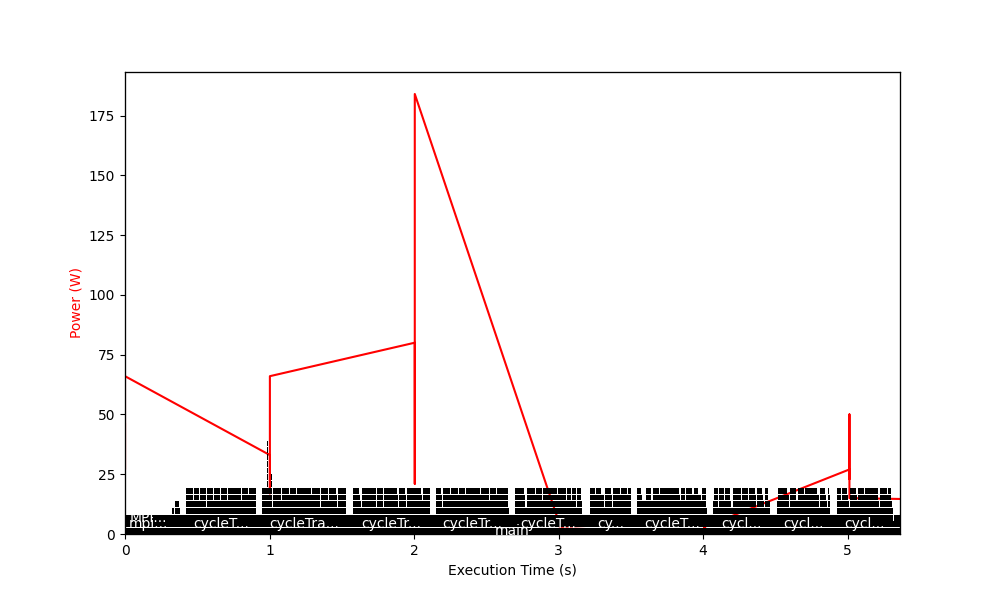
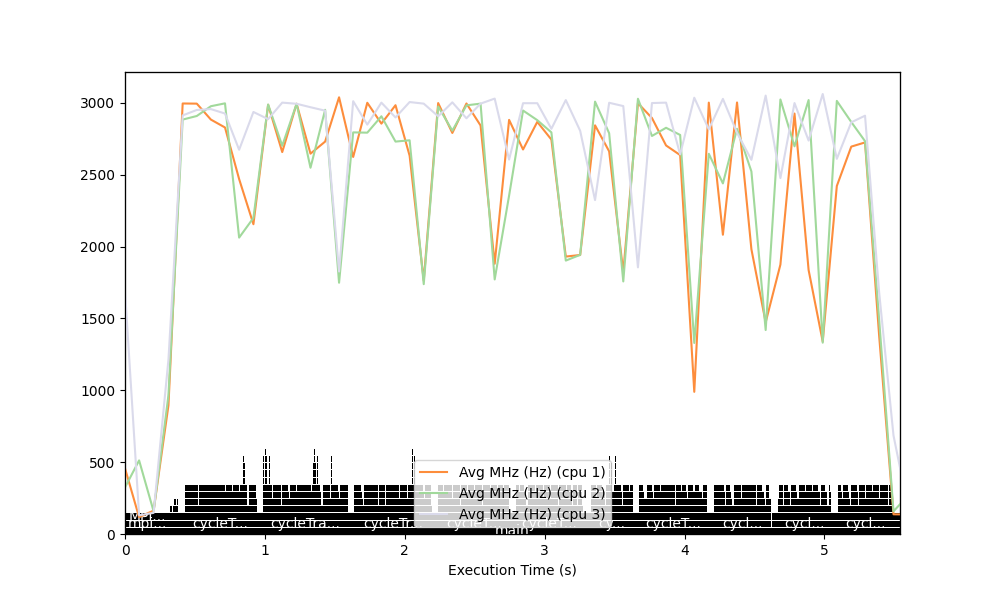
feat(turbostat): enable clean, multi-cpu graphing

diff --git a/main.py b/main.py
@@ -4,123 +4,116 @@ import matplotlib.ticker as ticker
 from matplotlib import colormaps
 import pandas as pd
 
-units = {'Avg_MHz': 'Power (W)', 'FREQ': 'Frequency (Hz)'}
+units = {"Avg_MHz": "Avg MHz (Hz)", "FREQ": "Frequency (Hz)"}
 
 prev_annotation = None
 
-
 def generate_stack_timeline(trace_file):
-  with open(trace_file, 'r') as file:
+  with open(trace_file, "r") as file:
     data = json.load(file)
 
   event_timeline = []
   event_stack = []
   measurement_start = 0
-  for event in data['traceEvents']:
+  for event in data["traceEvents"]:
     # Ignore metadata for now
-    event['ts'] = event['ts']/1e6
-    if event['ph'] == 'M':
+    event["ts"] = event["ts"]/1e6
+    if event["ph"] == "M":
       continue
 
     if not measurement_start:
-      measurement_start = event['ts']
+      measurement_start = event["ts"]
 
-    if event['ph'] == 'B':  # B means begin
+    if event["ph"] == "B":  # B means begin
       event_stack.append({
-          'name': event['name'],
-          'start': event['ts'] - measurement_start,
-          'depth': len(event_stack)
+          "name": event["name"],
+          "start": event["ts"] - measurement_start,
+          "depth": len(event_stack)
       })
 
-    if event['ph'] == 'E':  # E means end
+    if event["ph"] == "E":  # E means end
       prev_event = event_stack.pop()
-      prev_event['end'] = event['ts'] - measurement_start
-      prev_event['duration'] = event['ts'] - \
-          measurement_start - prev_event['start']
+      prev_event["end"] = event["ts"] - measurement_start
+      prev_event["duration"] = event["ts"] - \
+          measurement_start - prev_event["start"]
       event_timeline.append(prev_event)
   return event_timeline
 
 
-def plot_event_timeline(event_timeline, power_measurements, columns, title):
+def plot_event_timeline(event_timeline, power_measurements, columns, cpus, title):
   # update the trace file and data file to be in elapsed seconds
   power_data = pd.read_csv(power_measurements)
-  power_data['TIME_STAMP'] = power_data['TIME_STAMP'] - \
-      power_data['TIME_STAMP'][0]
-  power_data['TIME_STAMP'] = power_data['TIME_STAMP']/1e6
+  power_data["TIME_STAMP"] = power_data["TIME_STAMP"] - \
+      int(power_data["TIME_STAMP"][0])
+  power_data["TIME_STAMP"] = power_data["TIME_STAMP"]/1e6
+
   for event in event_timeline:
-    event['start'] = event['start']
-    event['end'] = event['end']
-    event['duration'] = event['duration']
+    event["start"] = event["start"]
+    event["end"] = event["end"]
+    event["duration"] = event["duration"]
 
   fig, ax = plt.subplots(figsize=(10, 6))
   # have to set this, bounding box would change each time, causing incorrect text width
-  ax.set_xlim(0, max([event['end'] for event in event_timeline]))
+  ax.set_xlim(0, max([event["end"] for event in event_timeline]))
 
-  # plot the power_metrics, first one and second
-  if columns[0] in power_data.columns:
-    column = columns[0]
-    ax2 = ax.twinx()
-    # arbritrary 5% buffer on top of max point.
-    ax2.set_ylim(0, power_data[column].max() +
-                 (power_data[column].max()) * .05)
-    ax2.yaxis.tick_left()
-    ax2.yaxis.set_label_position("left")
-    ax2.plot(power_data['TIME_STAMP'],
-             power_data[column], picker=False, color="red")
-    ax2.set_ylabel(units[column], color="red")
-
-  if len(columns) > 1:
-    if columns[1] in power_data.columns:
-      column = columns[1]
-      ax3 = ax.twinx()
+  # plot the power_metrics
+  colormap = colormaps.get_cmap("tab20c")
+  ax2 = ax.twinx()
+  ax2.set_zorder(3)
+  labels = []
+  for i, column in enumerate(columns):
+    if not column in power_data.columns:
+      raise Exception(f"Column {column} does not exist in the CSV.")
+    for cpu in cpus:
+      stat_color = colormap(cpu / (max(cpus) + 1))
       # arbritrary 5% buffer on top of max point.
-      ax3.set_ylim(0, power_data[column].max() +
-                   (power_data[column].max()) * .05)
-      ax3.yaxis.tick_right()
-      ax3.yaxis.set_label_position("right")
-      ax3.plot(power_data['TIME_STAMP'],
-               power_data[column], picker=False, color="blue")
-      ax3.set_ylabel(units[column], color="blue")
+      ax2.set_ylim(0, power_data[column].max() +
+                  (power_data[column].max()) * .05)
+      ax2.yaxis.tick_left()
+      ax2.yaxis.set_label_position("left")
+      ax2.plot(power_data.loc[power_data["CPU"] == f"{cpu}", "TIME_STAMP"],
+              power_data.loc[power_data["CPU"] == f"{cpu}", column], picker=False, color=stat_color)
+      labels.append(f"{units[column]} (cpu {cpu})" or f"{column} ({cpu})")
+  ax2.legend(labels)
 
   # plot the traces
   bar_height = 0.3
   bar_vertical_space = 0.05
 
-  colormap = colormaps.get_cmap('tab20c')
   renderer = fig.canvas.get_renderer()
   ax4 = ax.twinx()
 
   for i, event in enumerate(event_timeline):
-    y_start = event['depth'] * (bar_vertical_space + bar_height)
-    x_start = event['start']
-    bar_width = event['duration']
+    y_start = event["depth"] * (bar_vertical_space + bar_height)
+    x_start = event["start"]
+    bar_width = event["duration"]
     text = ax4.text(x_start + bar_width / 2, y_start + bar_height / 2,
-                    event['name'], ha='center', va='center', color='white')
+                    event["name"], ha="center", va="center", color="white")
     bounding_box = text.get_window_extent(renderer=renderer)
     text_width = ax4.transData.inverted().transform((bounding_box.width, 0))[
         0] - ax4.transData.inverted().transform((0, 0))[0]
     if bar_width < text_width:  # if bar is too small
       max_bar_text_width = int(
-          (bar_width/text_width) * len(event['name']))
+          (bar_width/text_width) * len(event["name"]))
       if max_bar_text_width > 4:  # event for at least 1 character and ...
-        text.set_text(event['name'][:max_bar_text_width - 3] + '...')
+        text.set_text(event["name"][:max_bar_text_width - 3] + "...")
       else:
         text.remove()
-    legend_label = event['name'].lstrip('_')
+    legend_label = event["name"].lstrip("_")
 
-    bar_colour = "black"  # bar_colour = colormap(i / len(event_timeline))
+    bar_colour = "black"
     ax4.broken_barh([(x_start, bar_width)], (y_start, bar_height),
                     facecolors=bar_colour, picker=True, label=legend_label)
 
   # have bars only take up bottom half of plot
-  ax4.set_ylim(0, max([event['depth'] for event in event_timeline]) * 1.5)
+  ax4.set_ylim(0, max([event["depth"] for event in event_timeline]) * 1.5)
   ax4.set_yticklabels([])
   ax4.set_yticks([])
 
   ax.set_yticklabels([])
   ax.set_yticks([])
-  ax.set_xlabel('Execution Time (s)')
-  plt.savefig('./event_timeline.png')
+  ax.set_xlabel("Execution Time (s)")
+  plt.savefig("./event_timeline.png")
 
   def hover(event):
     global prev_annotation
@@ -132,19 +125,19 @@ def plot_event_timeline(event_timeline, power_measurements, columns, title):
         (ax4.get_xlim()[1] / 3), ax4.get_ylim()[1] - 0.5), arrowprops=dict(arrowstyle="->", color="black", lw=1))
     fig.canvas.draw()
 
-  fig.canvas.mpl_connect('pick_event', hover)
+  fig.canvas.mpl_connect("pick_event", hover)
   plt.title(title)
 
   # cosmetic changes to chart
 
   plt.show()  # Not gonna work over SSH (without X11 forwarding) --> save the plot as well
-  plt.savefig('./stack-trace.png')
+  plt.savefig("./stack-trace.png")
 
 
-timeline = generate_stack_timeline('./data/trace.json')
+timeline = generate_stack_timeline("./data/trace.json")
 
 # SOME USAGE:
 # pass in timeline, name of data file, the columns to plot, and then plot title.
-# plot_event_timeline(timeline, 'main_test1731268056.txt',["POWER", "FREQ"], "CPUx Power and Frequency Against Trace Timeline")
-plot_event_timeline(timeline, 'data/stats.csv',
-                    ["Avg_MHz"], "CPUx Power Against Trace Timeline")
+# plot_event_timeline(timeline, "main_test1731268056.txt",["POWER", "FREQ"], "CPUx Power and Frequency Against Trace Timeline")
+plot_event_timeline(timeline, "data/stats.csv",
+                    ["Avg_MHz"], [1, 2, 3], "CPU Avg Freq. Against Trace Timeline")

diff --git a/turbostat.py b/turbostat.py
@@ -39,4 +39,4 @@ def run_turbostat(interval=0.5, output_csv="./data/stats.csv"):
 
 
 if __name__ == "__main__":
-  run_turbostat(interval=1)
+  run_turbostat(interval=0.1)
